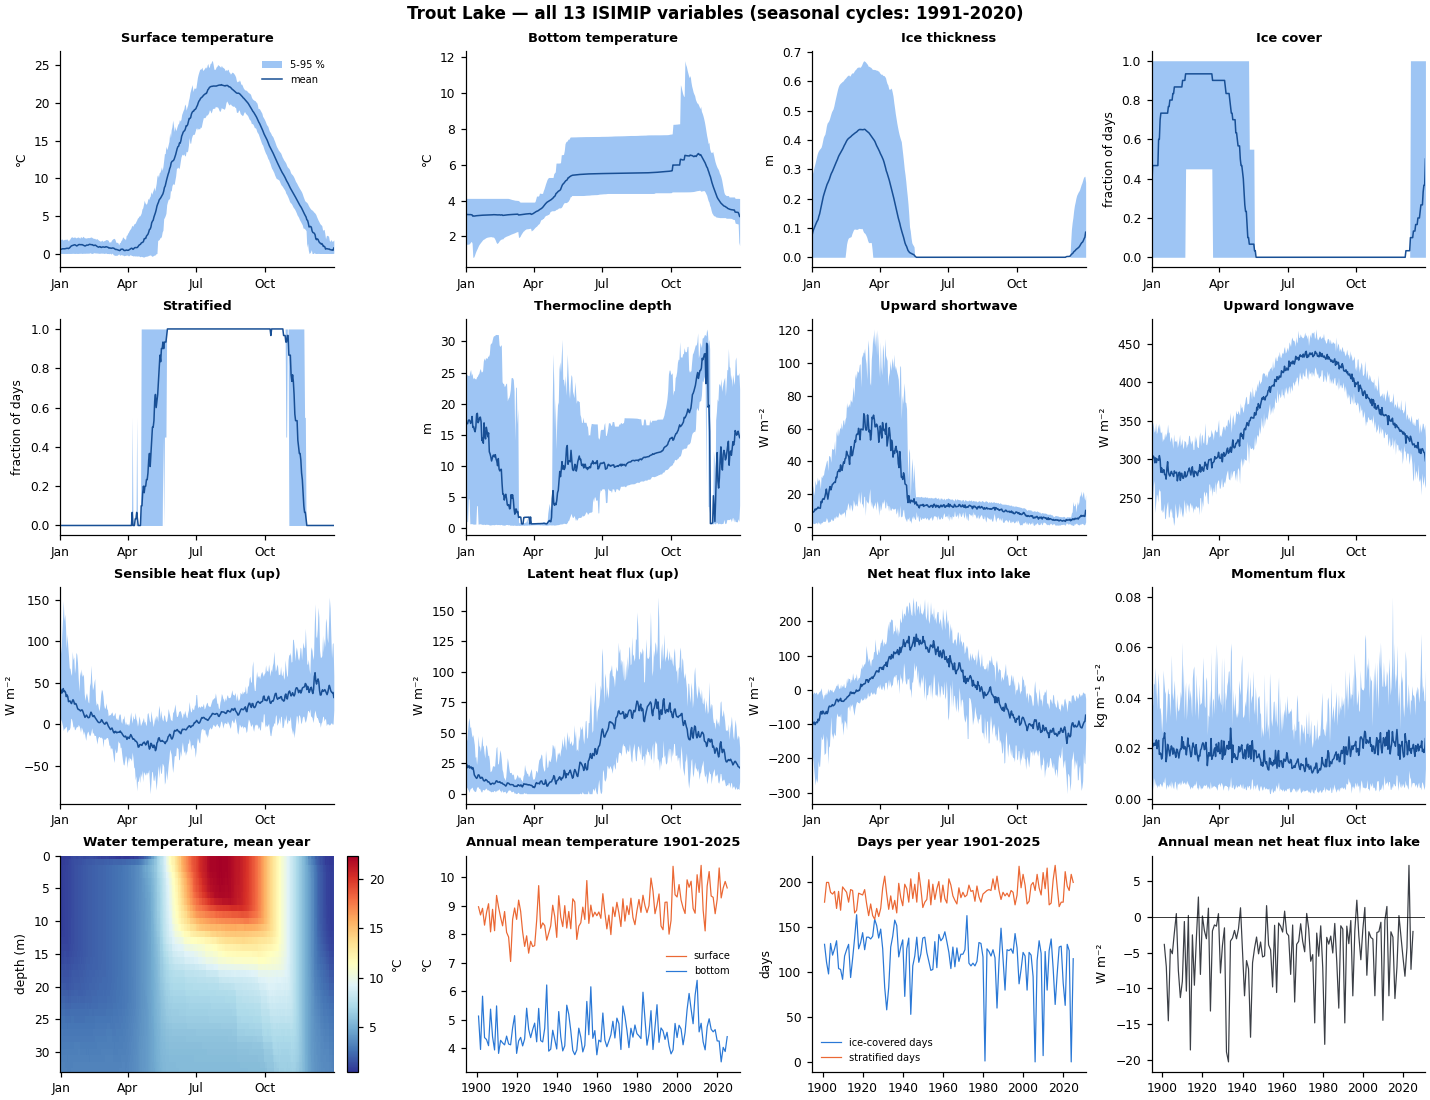
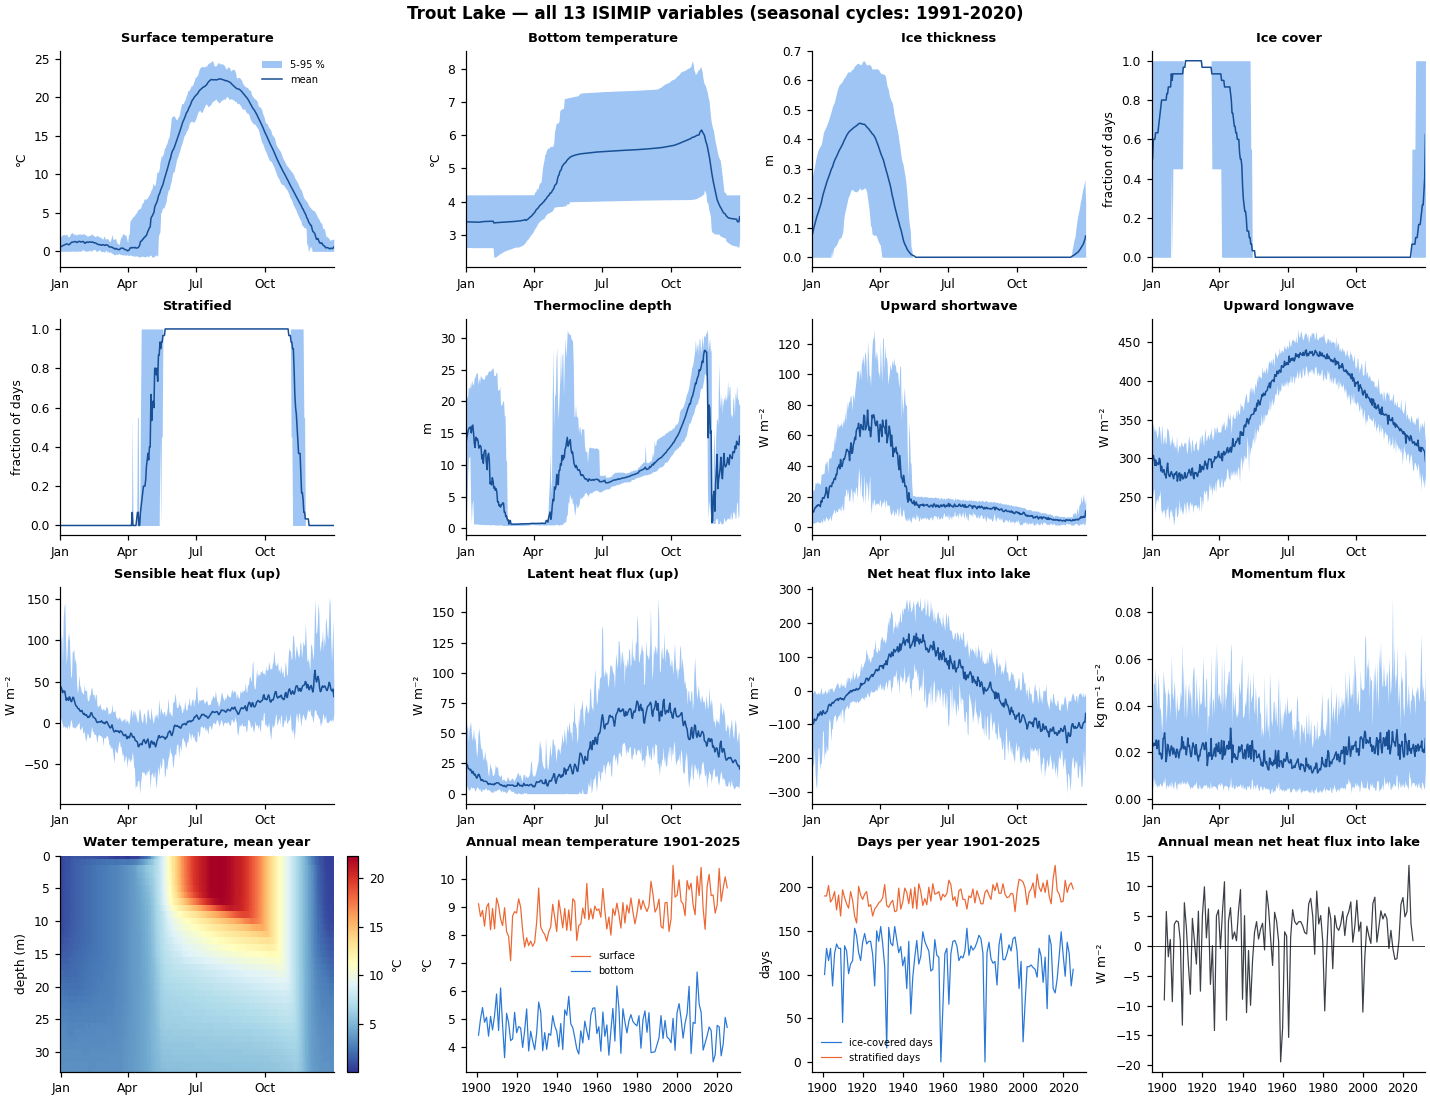
Trout Lake: hypsometry areas / 10, re-calibrated and re-run; README refilled
Claude-Session: https://claude.ai/code/session_012gXdm6EJJ5ogZa7HMTddcP

diff --git a/calibration/build_lake_table.py b/calibration/build_lake_table.py
@@ -51,6 +51,9 @@ TMIN, TMAX = LIMITS["Temp_degreeCelcius"]
 # the temperature column; observed range otherwise 26.0-32.7 C (deep water 27.2 C). Reported for the data contributor.
 OBS_QC = {"Bosumtwi": {"min_value": 24.0, "max_value": 33.0,
                         "reason": "value = depth entries (column mix-up), outside 24-33 C"}}
+# Hypsometry area factors (user decision 2026-10-23). Trout Lake's ISIMIP3 hypsometry gives 160,790,000 m2 at
+# the surface, ten times the lake (NTL-LTER: 1,607.9 ha; sheet 15.65 km2): a decimal shift. All its areas / 10.
+HYPSO_AREA_FACTOR = {"Trout": (0.1, "areas ten times too large in the source file (decimal shift); divided by 10")}
 
 
 def num(x):
@@ -151,6 +154,10 @@ def main():
         if not hf.exists():                           # some ISIMIP3 lakes keep it in ../hypso
             hf = I3.parent / "hypso" / f"{lake}_hypsometry.csv"
         h = read_hypso(hf)
+        if lake in HYPSO_AREA_FACTOR:
+            fac, why = HYPSO_AREA_FACTOR[lake]
+            h = h.assign(area=h.area * fac)
+            print(f"  {lake}: hypsometry areas x {fac} ({why})")
         # A fully inverted depth axis (area growing with depth at every level) is a height-
         # above-bottom column mislabelled DEPTH: Bosumtwi's ISIMIP4 file (0.06 km2 at "0 m",
         # 48.8 km2 at 73.4 m; the ISIMIP3 file has the same numbers the right way up).

diff --git a/README.md b/README.md
@@ -18,7 +18,7 @@ compare every delivered lake with its observations.
 | Institutions | Spanish National Research Council (CSIC), Centre for Advanced Studies of Blanes (CEAB), Spain; Vrije Universiteit Brussel (VUB), Belgium |
 
 <!-- BEGIN:summary -->
-Results at a glance: 77 of 77 lakes delivered. Median water-temperature RMSE of the delivered files: **1.11 °C** in the calibration years, **1.31 °C** in the validation years and **1.44 °C** in years the calibration never used (45 lakes); GLM with its default parameters: 1.99 °C in the validation years.
+Results at a glance: 77 of 77 lakes delivered. Median water-temperature RMSE of the delivered files: **1.11 °C** in the calibration years, **1.30 °C** in the validation years and **1.43 °C** in years the calibration never used (45 lakes); GLM with its default parameters: 1.97 °C in the validation years.
 <!-- END:summary -->
 
 ![Validation error per lake](figures/summary_map.png)
@@ -139,7 +139,7 @@ light-extinction range):
   `calibration/results_all.csv`.
 
 <!-- BEGIN:calibration -->
-Over the 77 calibrated lakes (median, interquartile range in brackets): calibration RMSE **1.04 °C** (0.84-1.28), validation **1.37 °C** (1.06-1.69); with GLM's default parameters 1.95 and 1.99 °C. The calibration improved the validation RMSE in 66 of 77 lakes. Calibrated parameter medians: `wind_factor` 1.05, `sw_factor` 0.965, `kw_scaling` 1.28, `coef_mix_hyp` 1.36, `coef_mix_conv` 0.17, `coef_mix_turb` 0.505; 20 lakes have at least one parameter at a bound (`at_bound` in `results_all.csv`).
+Over the 77 calibrated lakes (median, interquartile range in brackets): calibration RMSE **1.02 °C** (0.84-1.28), validation **1.37 °C** (1.06-1.69); with GLM's default parameters 1.94 and 1.97 °C. The calibration improved the validation RMSE in 66 of 77 lakes. Calibrated parameter medians: `wind_factor` 1.05, `sw_factor` 0.965, `kw_scaling` 1.27, `coef_mix_hyp` 1.36, `coef_mix_conv` 0.17, `coef_mix_turb` 0.505; 20 lakes have at least one parameter at a bound (`at_bound` in `results_all.csv`).
 <!-- END:calibration -->
 
 ![RMSE per lake](figures/summary_rmse_by_lake.png)
@@ -194,10 +194,11 @@ missing value 1e20; compressed (zlib). Each lake folder also has `SHA256SUMS` an
   `watertemp` of these lakes for trends. (Kivu, Bosumtwi and Edward are permanently stratified in reality too.)
 - *Ice on Tahoe.* The model forms ice in two cold winters (about 20 days around 1917 and 58 days around 1949);
   Lake Tahoe does not freeze.
-- *Trout Lake hypsometry.* The ISIMIP3 hypsometry used for Trout Lake gives a surface area of 160.8 km², about ten
-  times the lake's area (15.65 km²); found when the observations were reviewed for
-  [ISIMIP4_Local_Lakes_ObsData](https://github.com/ISIMIP-LAKE/ISIMIP4_Local_Lakes_ObsData). The Trout Lake run will be
-  repeated once the provider confirms the correct areas.
+- *Trout Lake hypsometry (corrected).* The ISIMIP3 hypsometry of Trout Lake gave 160.8 km² at the surface, ten
+  times the lake (16.08 km², NTL-LTER); all its areas were divided by 10 (`calibration/build_lake_table.py`) and the lake
+  was re-calibrated and re-run. Validation RMSE of the calibration 1.51 → 1.41 °C, of the delivered file 1.56 → 1.29 °C
+  (GLM defaults 2.46 → 1.51 °C). Found when the observations were reviewed for
+  [ISIMIP4_Local_Lakes_ObsData](https://github.com/ISIMIP-LAKE/ISIMIP4_Local_Lakes_ObsData).
 
 ![All variables, Lake Erken](figures/lakes/Erken_variables.png)
 
@@ -215,8 +216,8 @@ Median RMSE (°C) of the delivered files per lake, and the bias (model − obser
 | Observations | Lakes | Median RMSE | Median bias |
 |---|---|---|---|
 | calibration half | 77 | 1.11 | -0.05 |
-| validation half | 77 | 1.31 | -0.00 |
-| all other years 1901-2025 | 45 | 1.44 | -0.02 |
+| validation half | 77 | 1.30 | +0.01 |
+| all other years 1901-2025 | 45 | 1.43 | -0.02 |
 
 The delivered run differs from the calibration runs (125 years with a repeated-forcing spin-up instead of a 20-year spin-up and an observed initial profile), so its calibration/validation scores differ slightly from `best.csv`.
 
@@ -299,7 +300,7 @@ File checks (`local_lakes/qc_isimip.py`, `results/qc.csv`): every lake has the 1
 | Lake Tarawera | 87.5 | 0.42 / 0.93 / 0.48 | [temperature](figures/lakes/Tarawera_temperature.png), [all variables](figures/lakes/Tarawera_variables.png) |
 | Lake Thun | 212 | 1.00 / 1.15 / 1.03 | [temperature](figures/lakes/Thun_temperature.png), [all variables](figures/lakes/Thun_variables.png) |
 | Toolik Lake | 26 | 1.62 / 1.54 / 1.99 | [temperature](figures/lakes/Toolik_temperature.png), [all variables](figures/lakes/Toolik_variables.png) |
-| Trout Lake | 33 | 1.68 / 1.55 / 2.15 | [temperature](figures/lakes/Trout_temperature.png), [all variables](figures/lakes/Trout_variables.png) |
+| Trout Lake | 33 | 1.32 / 1.29 / 1.31 | [temperature](figures/lakes/Trout_temperature.png), [all variables](figures/lakes/Trout_variables.png) |
 | Trout Bog | 8 | 2.18 / 1.94 / 2.07 | [temperature](figures/lakes/TroutBog_temperature.png), [all variables](figures/lakes/TroutBog_variables.png) |
 | Two Sisters Lake | 19 | 1.63 / 2.28 / 1.87 | [temperature](figures/lakes/TwoSisters_temperature.png), [all variables](figures/lakes/TwoSisters_variables.png) |
 | Lake Vendyurskoe | 14 | 1.24 / 1.23 / 1.18 | [temperature](figures/lakes/Vendyurskoe_temperature.png), [all variables](figures/lakes/Vendyurskoe_variables.png) |
